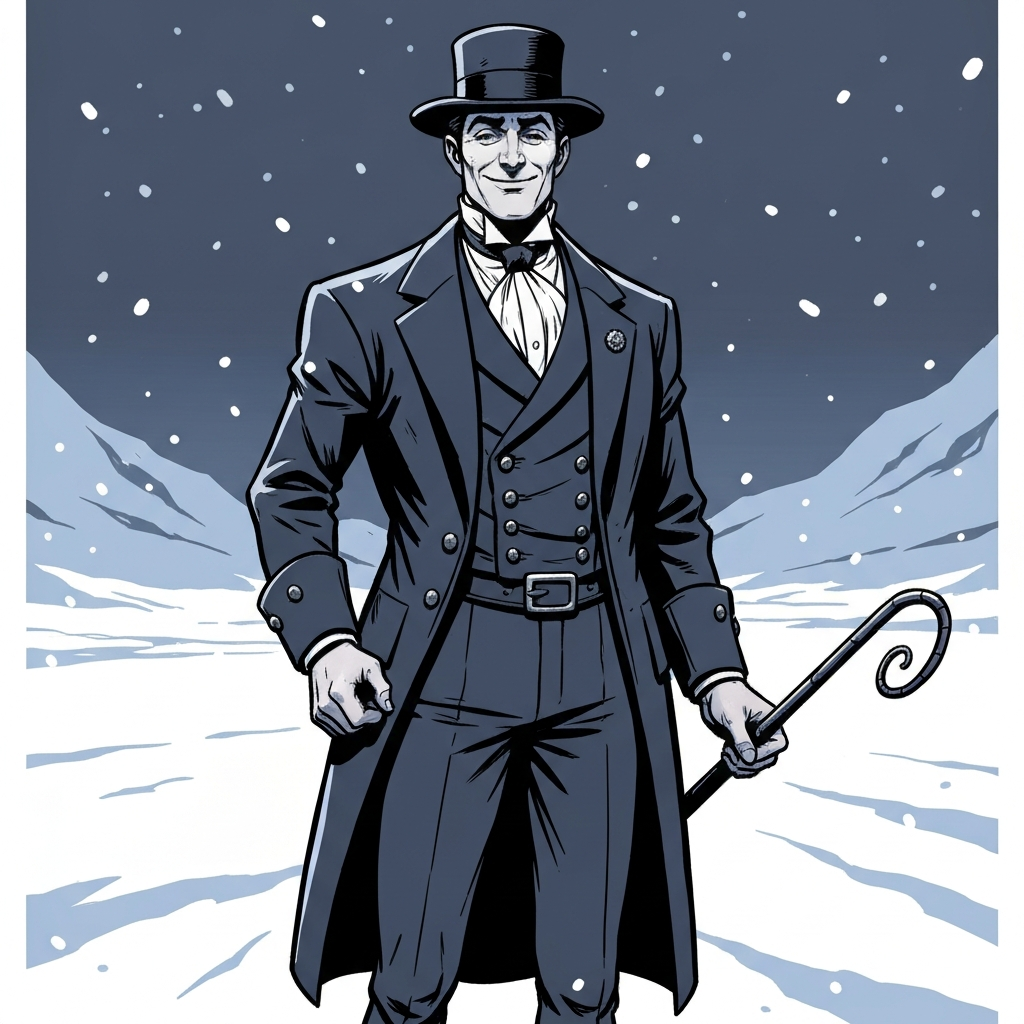
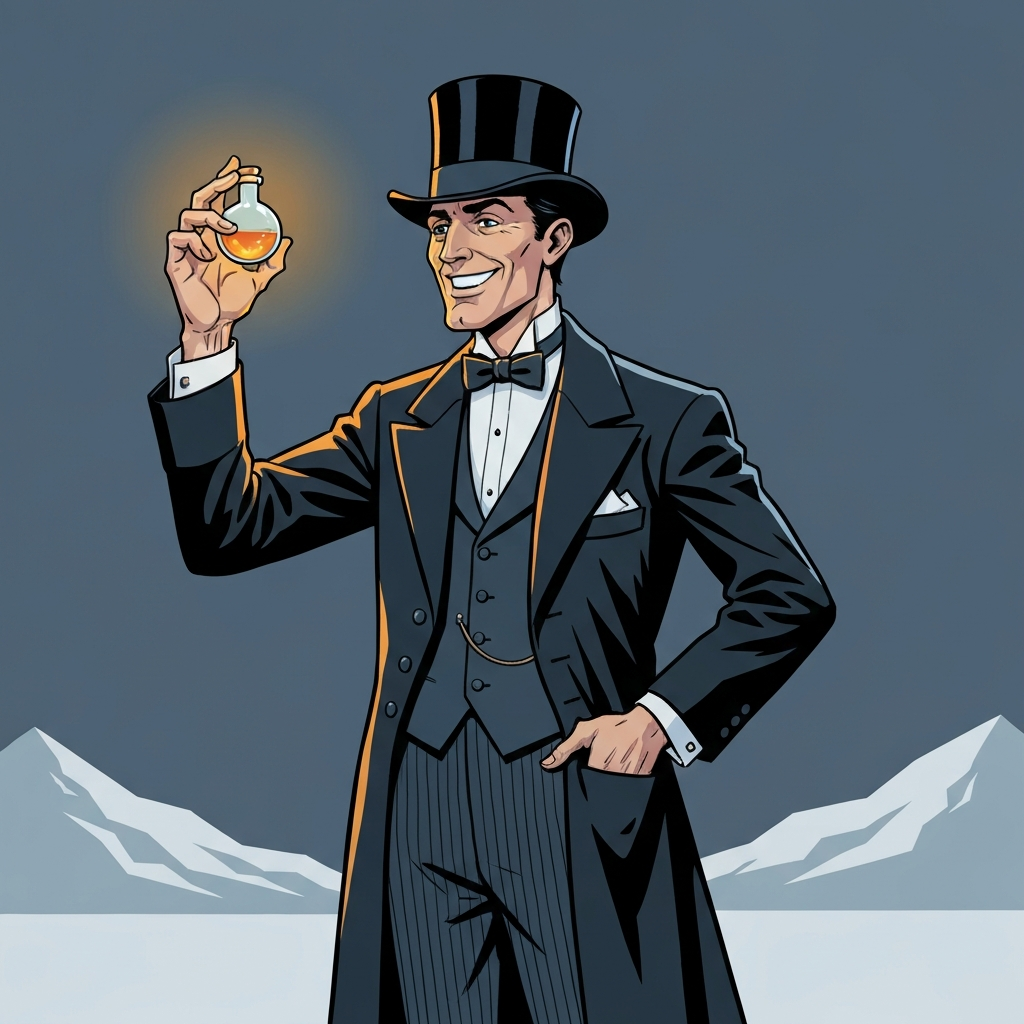
add image prompts to character files; update River and Dr. Medicine portraits
- All five characters now have image_prompt in frontmatter for future regeneration
- River: new pulp-style portrait replacing old character-sheet art
- Dr. Medicine: new portrait emphasizing the charlatan angle (vial held aloft)
- Raydin: prompt derived from player-provided image for reference

diff --git a/rpg/icewind-dale/public/characters/raydin.md b/rpg/icewind-dale/public/characters/raydin.md
@@ -7,6 +7,12 @@ player: Nadir
 class: Aasimar Sorcerer 3 (Clockwork Soul) / Warlock 2 (Hexblade)
 dnd_beyond: https://www.dndbeyond.com/characters/166648821
 image: /rpg/icewind-dale/public/characters/images/raydin.png
+image_prompt: >-
+  portrait of a young man with warm olive Mediterranean complexion, curly dark hair, strong brows,
+  warm amber eyes, wearing a heavy dark coat with large fur collar and fur-trimmed cuffs, dark gloves,
+  one hand fanning five glowing amber-edged playing cards, other hand revealing a single ornate glowing
+  card, knowing and confident smile, celestial four-pointed star motif, starry arctic night sky background,
+  warm amber accent highlight
 ---
 
 ## Description

diff --git a/rpg/icewind-dale/public/characters/river.md b/rpg/icewind-dale/public/characters/river.md
@@ -11,6 +11,11 @@ class: Rogue 3 / Monk (Swashbuckler into Monk multiclass)
 background: Mulhorandi Tomb Raider
 dnd_beyond: https://www.dndbeyond.com/characters/164761052
 image: /rpg/icewind-dale/public/characters/images/river.png
+image_prompt: >-
+  portrait of an athletic feline humanoid man with snow leopard spotted fur, white and dark gray
+  markings, alert amber eyes, lean muscular build, wearing practical dark leather traveling clothes
+  and a wrapped scarf, short blades at his belt, quiet and competent expression suggesting someone
+  accustomed to moving unseen through dangerous places, warm amber accent highlight
 ---
 
 ## Description

diff --git a/rpg/icewind-dale/public/characters/dr-medicine.md b/rpg/icewind-dale/public/characters/dr-medicine.md
@@ -11,6 +11,12 @@ class: Warlock 4 (Archfey Patron)
 background: Charlatan
 dnd_beyond: https://www.dndbeyond.com/characters/164677217
 image: /rpg/icewind-dale/public/characters/images/dr-medicine.png
+image_prompt: >-
+  portrait of a tall lean human man in a long dark frock coat, top hat, and bow tie,
+  one hand raised holding a small glass vial of glowing amber liquid up to the light,
+  other hand tucked in coat pocket, wide confident showman's smile that suggests he has
+  already sold you something, faint eldritch shimmer hinting at hidden power beneath the patter,
+  warm amber accent highlight
 ---
 
 ## Description

diff --git a/rpg/icewind-dale/public/characters/alina.md b/rpg/icewind-dale/public/characters/alina.md
@@ -11,6 +11,11 @@ class: Wizard 4 (Evoker)
 background: Guide
 dnd_beyond: https://www.dndbeyond.com/characters/164743608
 image: /rpg/icewind-dale/public/characters/images/alina.png
+image_prompt: >-
+  portrait of a young tiefling woman with light purple-tinged skin, small curved deep blue horns,
+  brown hair in a bob cut, striking violet eyes, pointy ears, wearing a dark blue long coat over
+  a deep magenta blouse, leather crossbody satchel, one hand raised holding a crackling glowing
+  orb of eldritch energy, alert and confident expression with dry humor, warm amber accent highlight
 ---
 
 ## Description

diff --git a/rpg/icewind-dale/public/characters/berg.md b/rpg/icewind-dale/public/characters/berg.md
@@ -11,6 +11,11 @@ class: Fighter 4 (Battle Master)
 background: Soldier
 dnd_beyond: https://www.dndbeyond.com/characters/164719669
 image: /rpg/icewind-dale/public/characters/images/berg.png
+image_prompt: >-
+  portrait of a large powerfully built orc man in heavy chainmail armor with pauldrons,
+  gray-green skin, strong jaw with short tusks, calm and calculating expression suggesting
+  quiet strategic intelligence, holding a single chess piece between two fingers and studying
+  it thoughtfully, full figure standing, broad shoulders filling the frame, warm amber accent highlight
 ---
 
 ## Description
